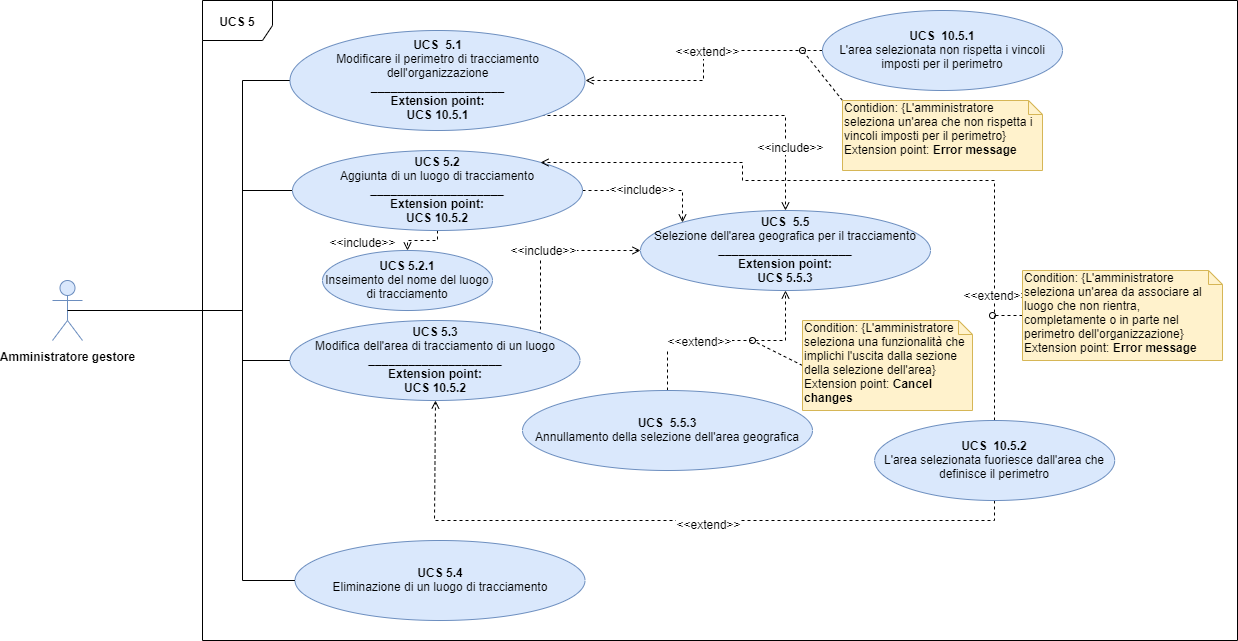
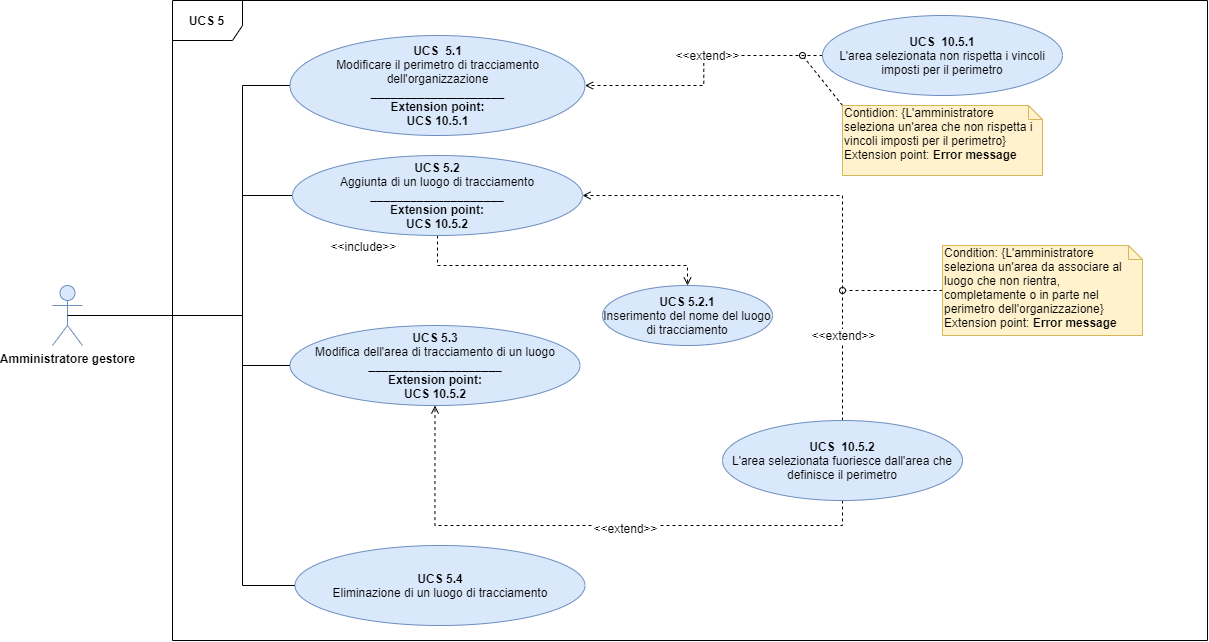
sistemati errori issue close #122

diff --git a/DocumentazioneEsterna/AnalisiDeiRequisiti/Sezioni/UseCase/UCS5.tex b/DocumentazioneEsterna/AnalisiDeiRequisiti/Sezioni/UseCase/UCS5.tex
@@ -20,7 +20,7 @@
 \subsubsection{UCS 5.1 - Modificare il perimetro di tracciamento dell'organizzazione}%sea level
 \begin{itemize}
     \item \textbf{Attori primari:} Amministratore gestore
-    \item \textbf{Precondizione:} L'amministratore si trova nella selezione dell’area geografica per il tracciamento dell'\glo{organizzazione} [UCS 5.5].
+    \item \textbf{Precondizione:} L'amministratore ha selezionato l’area geografica per il tracciamento dell'\glo{organizzazione} [UCS 5.5].
     \item \textbf{Postcondizione:} L'amministratore ha modificato con successo il \glo{perimetro} di \glo{tracciamento} dell'\glo{organizzazione}.
     \item \textbf{Scenario principale:} L'amministratore dovrà selezionare l'area geografica del \glo{perimetro} da tracciare.
      \item \textbf{Scenario alternativo:} L'amministratore ha selezionato un area che non rispetta i vincoli imposti. Verrà visualizzato un messaggio d'errore [UCS 10.5.1].
@@ -28,10 +28,6 @@
     \begin{enumerate}%flusso di eventi
         \item L'amministratore seleziona la funzionalità di modifica del \glo{perimetro} di \glo{tracciamento} dell'\glo{organizzazione};
         \item L'amministratore seleziona un'area geografica da associare al \glo{perimetro} di \glo{tracciamento} dell'\glo{organizzazione} [UCS 5.5]. L'area selezionata deve rispettare i vincoli imposti.
-    \end{enumerate}
-    \item \textbf{Inclusioni:}
-    \begin{enumerate}
-        \item UCS 5.5 - Selezione dell'area geografica per il tracciamento.
     \end{enumerate}
     \item \textbf{Estensioni:}
     \begin{enumerate}
@@ -42,7 +38,7 @@
 \subsubsection{UCS 5.2 - Aggiunta di un luogo di tracciamento}%sea level
 \begin{itemize}
     \item \textbf{Attori primari:} Amministratore gestore
-    \item \textbf{Precondizione:} L'amministratore si trova nella selezione dell’area geografica per il tracciamento dell'\glo{organizzazione} [UCS 5.5].
+    \item \textbf{Precondizione:} L'amministratore ha selezionato l’area geografica per il tracciamento dell'\glo{organizzazione} [UCS 5.5].
     \item \textbf{Postcondizione:} L'amministratore ha aggiunto con successo un \glo{luogo} di tracciamento.
     \item \textbf{Scenario principale:} L'amministratore dovrà inserire i dati per il nuovo \glo{luogo} da tracciare e l'area geografica del luogo da tracciare.
     \item \textbf{Scenario alternativo:} L'amministratore ha selezionato un area che fuoriesce dall'area che definisce il \glo{perimetro}. Verrà visualizzato un messaggio d'errore [UCS 10.5.2].
@@ -53,10 +49,6 @@
         \item L'amministratore seleziona un'area geografica da associare al \glo{luogo} di tracciamento. L'area selezionata rispetta i vincoli imposti [UCS 5.5]; 
         \item L'amministratore seleziona la funzionalità per salvare le modifiche apportate.
     \end{enumerate}   
-    \item \textbf{Inclusioni:}
-    \begin{enumerate}
-        \item UCS 5.5 - Selezione dell'area geografica per il tracciamento.
-    \end{enumerate}
     \item \textbf{Estensioni:}
     \begin{enumerate}
         \item UCS 10.5.2 - L'area selezionata fuoriesce dall'area che definisce il perimetro.
@@ -74,7 +66,7 @@
 \subsubsection{UCS 5.3 - Modifica dell'area di tracciamento di un luogo}%sea level
 \begin{itemize}
     \item \textbf{Attori primari:} Amministratore gestore
-    \item \textbf{Precondizione:} L'amministratore si trova nella selezione dell’area geografica per il tracciamento dell'\glo{organizzazione} [UCS 5.5].
+    \item \textbf{Precondizione:} L'amministratore ha selezionato l’area geografica per il tracciamento dell'\glo{organizzazione} [UCS 5.5].
     \item \textbf{Postcondizione:} L'amministratore ha modificato con successo l'area di \glo{tracciamento} del \glo{luogo}.
     \item \textbf{Scenario principale:} L'amministratore dovrà selezionare una nuova area per il \glo{tracciamento} del \glo{luogo} scelto.
     \item \textbf{Scenario alternativo:} L'amministratore ha selezionato un area che fuoriesce dall'area che definisce il \glo{perimetro}. Verrà visualizzato un messaggio d'errore [UCS 10.5.2].
@@ -84,10 +76,6 @@
         \item L'amministratore seleziona il \glo{luogo} da modificare;
         \item L'amministratore seleziona un'area geografica da associare al \glo{luogo} di \glo{tracciamento} [UCS 5.5];
         \item L'amministratore seleziona la funzionalità per salvare le modifiche apportate.
-    \end{enumerate}
-    \item \textbf{Inclusioni:}
-    \begin{enumerate}
-        \item UCS 5.5 - Selezione dell'area geografica per il tracciamento.
     \end{enumerate}
     \item \textbf{Estensioni:}
     \begin{enumerate}
